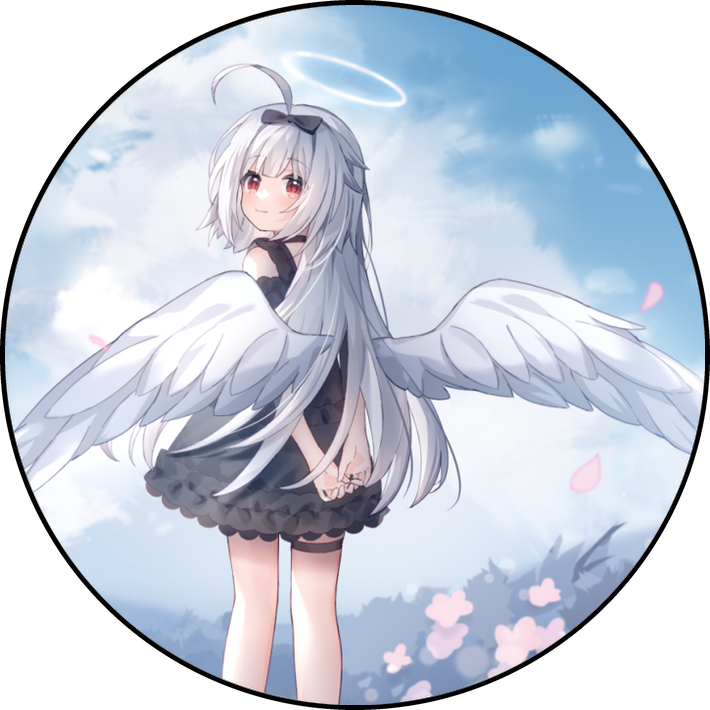
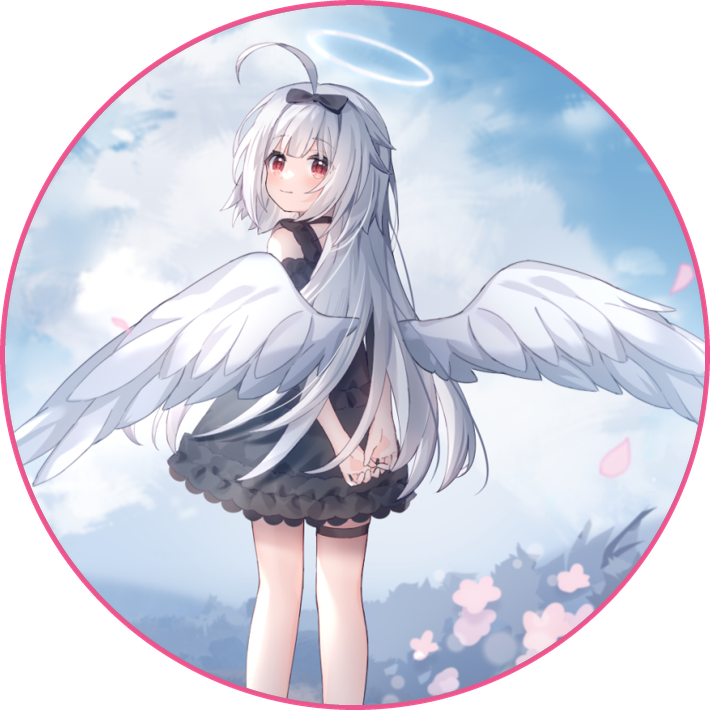
最大小球图片边框颜色修改

diff --git a/utils.py b/utils.py
@@ -52,10 +52,10 @@ def process_image(input_path, output_path, size, border_size, border_color):
 
 
 # 示例用法
-input_path = "input.png"  # 输入图片路径
-output_path = "output.png"  # 输出图片路径
+input_path = "./public/assets/input.png"  # 输入图片路径
+output_path = "./public/assets/ball-11.png"  # 输出图片路径
 size = 700  # 调整后的图片大小（宽度和高度）
 border_size = 5  # 边框宽度
-border_color = (0, 0, 0, 255)  # 边框颜色（红色，带透明度）
+border_color = (238, 84, 142, 255)  # 边框颜色
 
 process_image(input_path, output_path, size, border_size, border_color)
